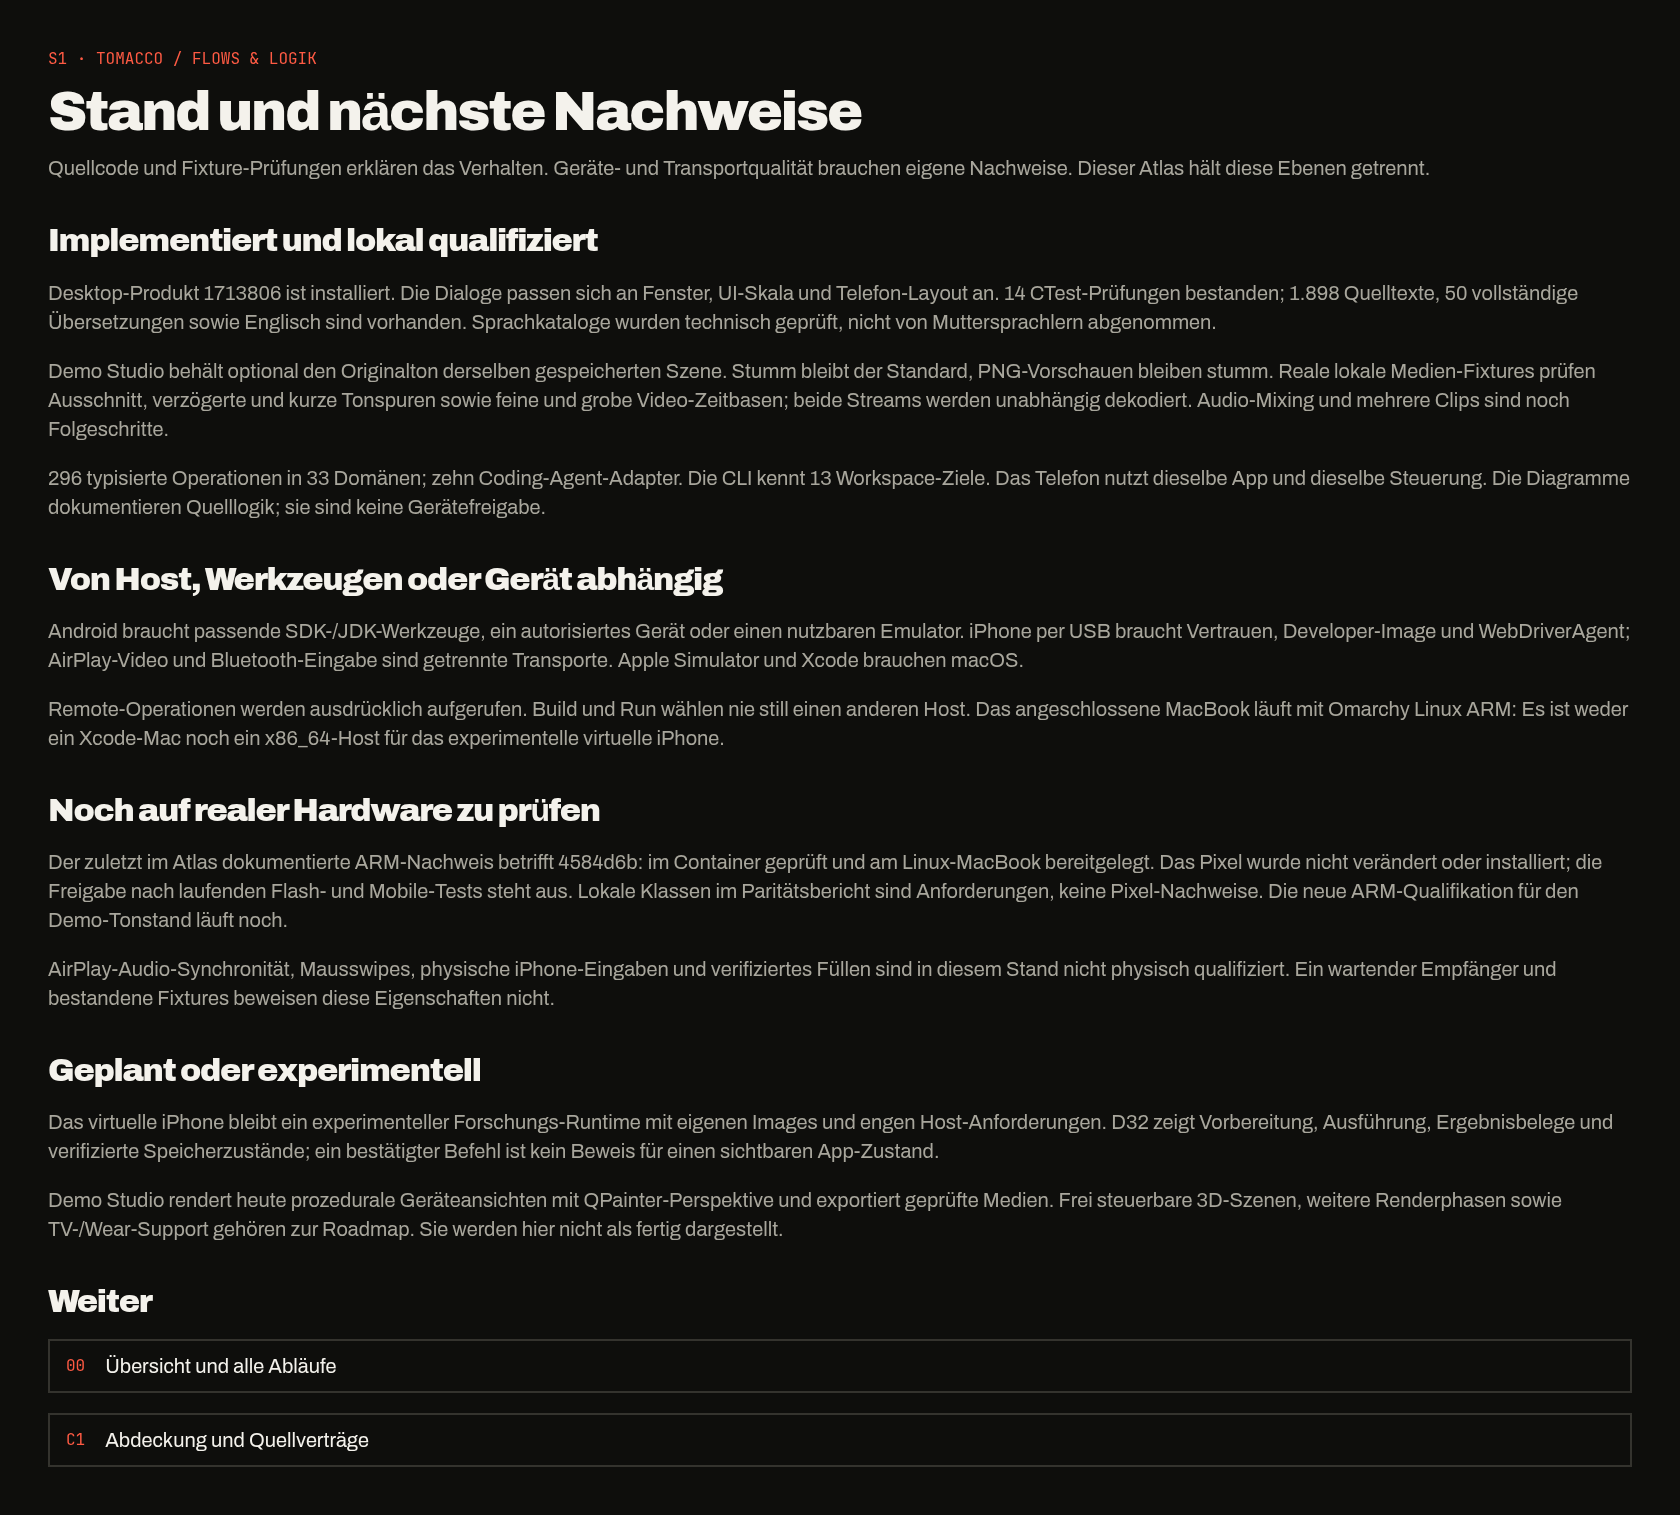
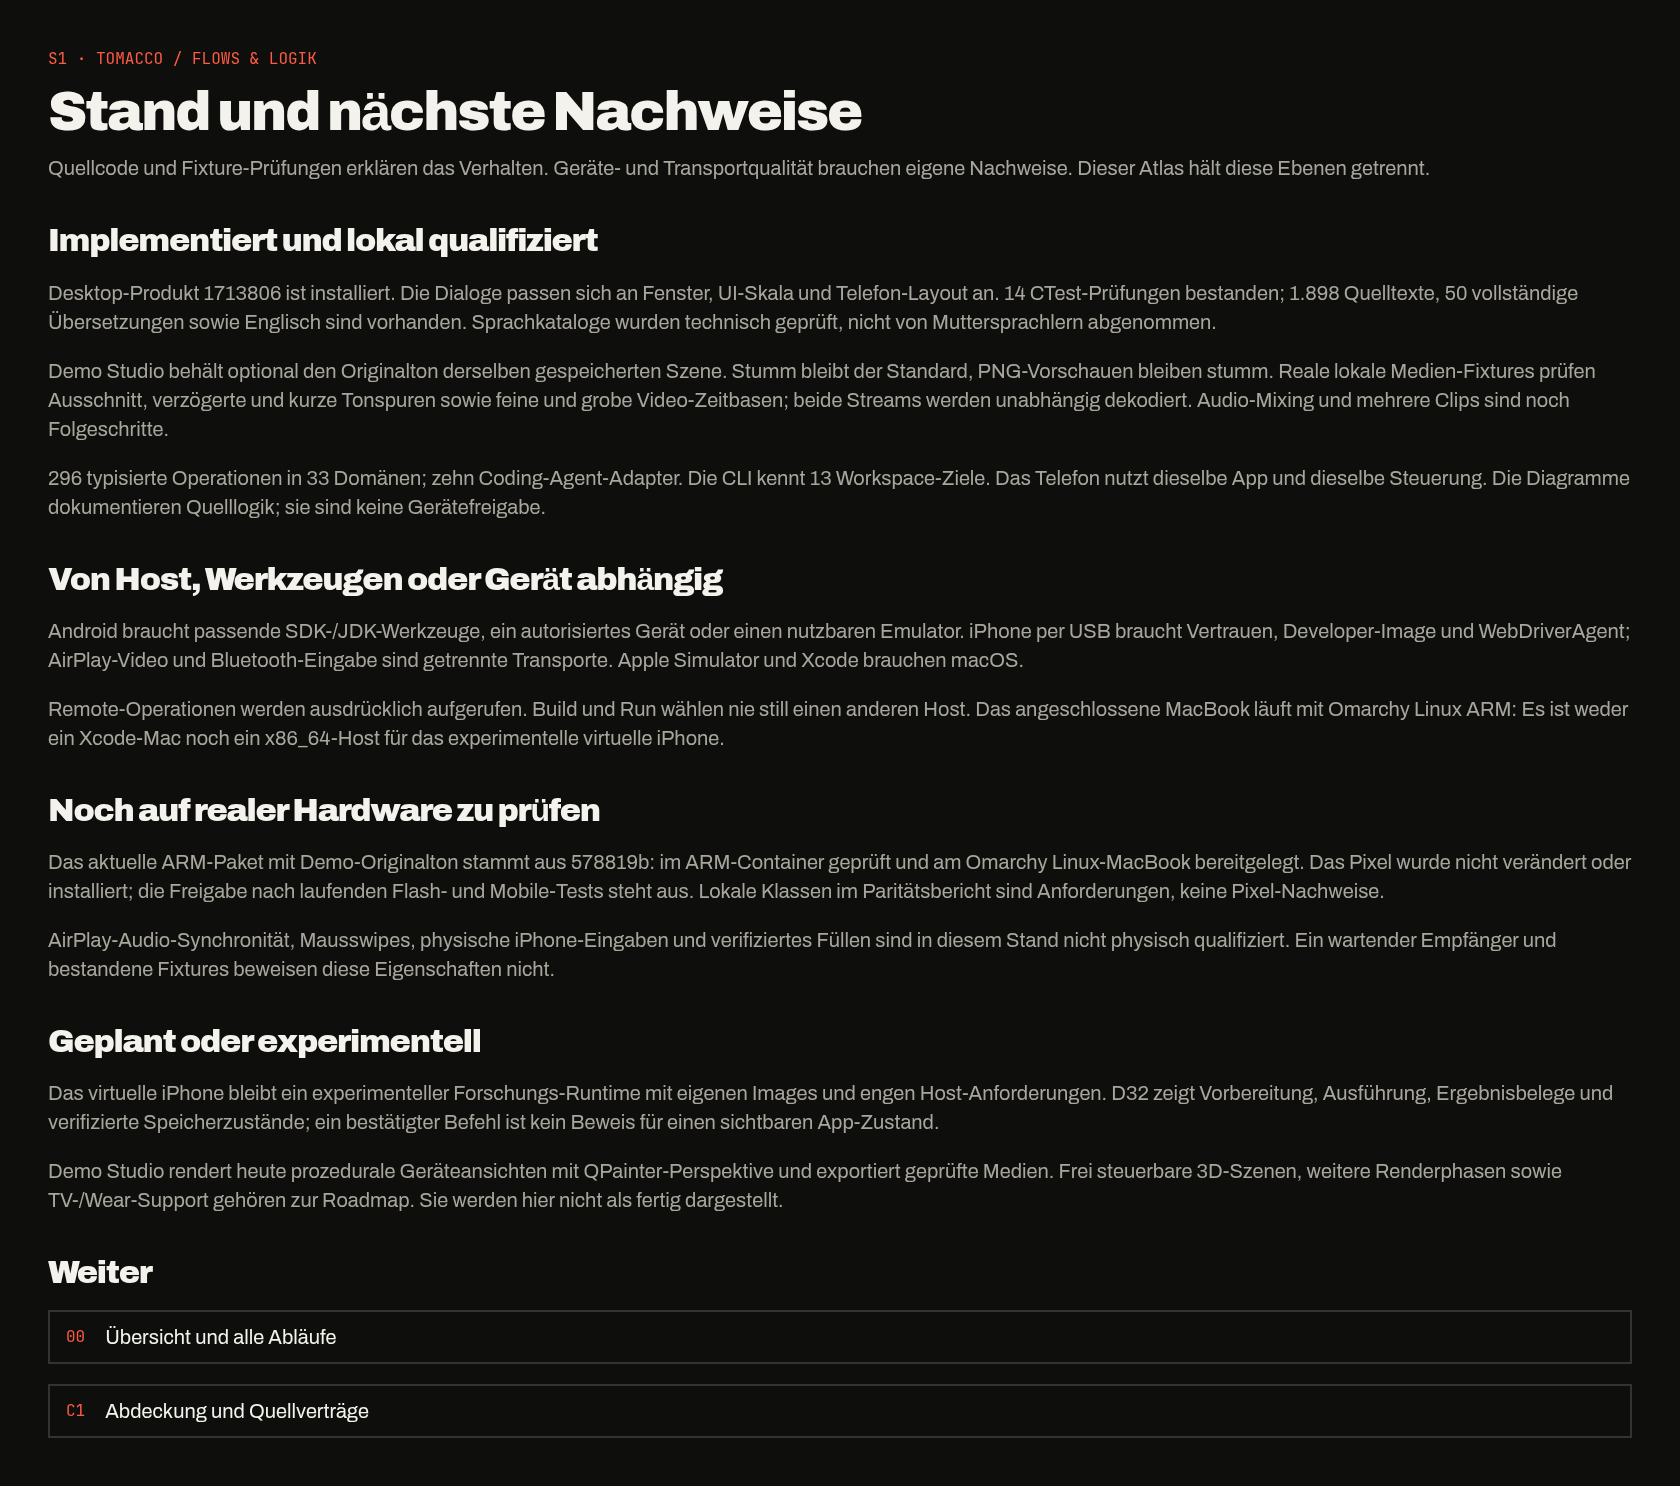
docs: reflect verified and staged source-audio ARM package in Bogen

diff --git a/docs/flows/tools/metadata.py b/docs/flows/tools/metadata.py
@@ -63,7 +63,7 @@ def payloads():
     out['S1body']='<div data-name="Statusinhalt" style="display:flex;flex-direction:column;gap:40px">'+''.join([
         section('Implementiert und lokal qualifiziert',p('Desktop-Produkt '+short+' ist '+installation+'. Die Dialoge passen sich an Fenster, UI-Skala und Telefon-Layout an. '+test_summary+' '+source_keys+' Quelltexte, 50 vollständige Übersetzungen sowie Englisch sind vorhanden. Sprachkataloge wurden technisch geprüft, nicht von Muttersprachlern abgenommen.')+p('Demo Studio behält optional den Originalton derselben gespeicherten Szene. Stumm bleibt der Standard, PNG-Vorschauen bleiben stumm. Reale lokale Medien-Fixtures prüfen Ausschnitt, verzögerte und kurze Tonspuren sowie feine und grobe Video-Zeitbasen; beide Streams werden unabhängig dekodiert. Audio-Mixing und mehrere Clips sind noch Folgeschritte.')+p('296 typisierte Operationen in 33 Domänen; zehn Coding-Agent-Adapter. Die CLI kennt 13 Workspace-Ziele. Das Telefon nutzt dieselbe App und dieselbe Steuerung. Die Diagramme dokumentieren Quelllogik; sie sind keine Gerätefreigabe.')),
         section('Von Host, Werkzeugen oder Gerät abhängig',p('Android braucht passende SDK-/JDK-Werkzeuge, ein autorisiertes Gerät oder einen nutzbaren Emulator. iPhone per USB braucht Vertrauen, Developer-Image und WebDriverAgent; AirPlay-Video und Bluetooth-Eingabe sind getrennte Transporte. Apple Simulator und Xcode brauchen macOS.')+p('Remote-Operationen werden ausdrücklich aufgerufen. Build und Run wählen nie still einen anderen Host. Das angeschlossene MacBook läuft mit Omarchy Linux ARM: Es ist weder ein Xcode-Mac noch ein x86_64-Host für das experimentelle virtuelle iPhone.')),
-        section('Noch auf realer Hardware zu prüfen',p('Der zuletzt im Atlas dokumentierte ARM-Nachweis betrifft '+current.get('arm_source_baseline','4584d6b')[:7]+': '+current.get('arm_status_text','im Container geprüft und am Linux-MacBook bereitgelegt')+'. Das Pixel wurde nicht verändert oder installiert; die Freigabe nach laufenden Flash- und Mobile-Tests steht aus. Lokale Klassen im Paritätsbericht sind Anforderungen, keine Pixel-Nachweise. Die neue ARM-Qualifikation für den Demo-Tonstand läuft noch.')+p('AirPlay-Audio-Synchronität, Mausswipes, physische iPhone-Eingaben und verifiziertes Füllen sind in diesem Stand nicht physisch qualifiziert. Ein wartender Empfänger und bestandene Fixtures beweisen diese Eigenschaften nicht.')),
+        section('Noch auf realer Hardware zu prüfen',p('Das aktuelle ARM-Paket mit Demo-Originalton stammt aus '+current.get('arm_source_baseline','4584d6b')[:7]+': '+current.get('arm_status_text','im Container geprüft und am Linux-MacBook bereitgelegt')+'. Das Pixel wurde nicht verändert oder installiert; die Freigabe nach laufenden Flash- und Mobile-Tests steht aus. Lokale Klassen im Paritätsbericht sind Anforderungen, keine Pixel-Nachweise.')+p('AirPlay-Audio-Synchronität, Mausswipes, physische iPhone-Eingaben und verifiziertes Füllen sind in diesem Stand nicht physisch qualifiziert. Ein wartender Empfänger und bestandene Fixtures beweisen diese Eigenschaften nicht.')),
         section('Geplant oder experimentell',p('Das virtuelle iPhone bleibt ein experimenteller Forschungs-Runtime mit eigenen Images und engen Host-Anforderungen. D32 zeigt Vorbereitung, Ausführung, Ergebnisbelege und verifizierte Speicherzustände; ein bestätigter Befehl ist kein Beweis für einen sichtbaren App-Zustand.')+p('Demo Studio rendert heute prozedurale Geräteansichten mit QPainter-Perspektive und exportiert geprüfte Medien. Frei steuerbare 3D-Szenen, weitere Renderphasen sowie TV-/Wear-Support gehören zur Roadmap. Sie werden hier nicht als fertig dargestellt.')),
         section('Weiter',link('00','Übersicht und alle Abläufe')+link('C1','Abdeckung und Quellverträge'))])+'</div>'
     out['C1header']=title('C1','Abdeckung und Einstiegspunkte','Die Registry ist der Vertrag. Der Atlas verbindet alle registrierten Operationen mit ihren Abläufen und zeigt, wie die App dieselben Funktionen erreichbar macht.')

diff --git a/docs/flows/README.md b/docs/flows/README.md
@@ -37,7 +37,7 @@ Desktop and phone use the same control program. CLI `preview` differs from the p
 
 ## Qualification limits
 
-The earlier ARM package from core `4584d6b` is container verified and staged on an Omarchy Linux ARM MacBook. The new source-audio package from `578819b` has been built; its new container verification is still running. Pixel installation awaits readiness after other mobile/flash work. Neither a source classification nor an ARM container run is a physical Pixel test. That MacBook is not macOS/Xcode and cannot host the x86_64-only experimental virtual iPhone.
[1 lines of base64/hex data omitted]
 
 Physical iPhone AirPlay audio synchrony, mouse swipes and verified fill remain unqualified here. The virtual iPhone is an experimental research runtime; command acceptance, a process observation and a visible scene are different evidence. Demo Studio's implemented QPainter perspective renderer is distinct from future arbitrary 3D scene work.
 
